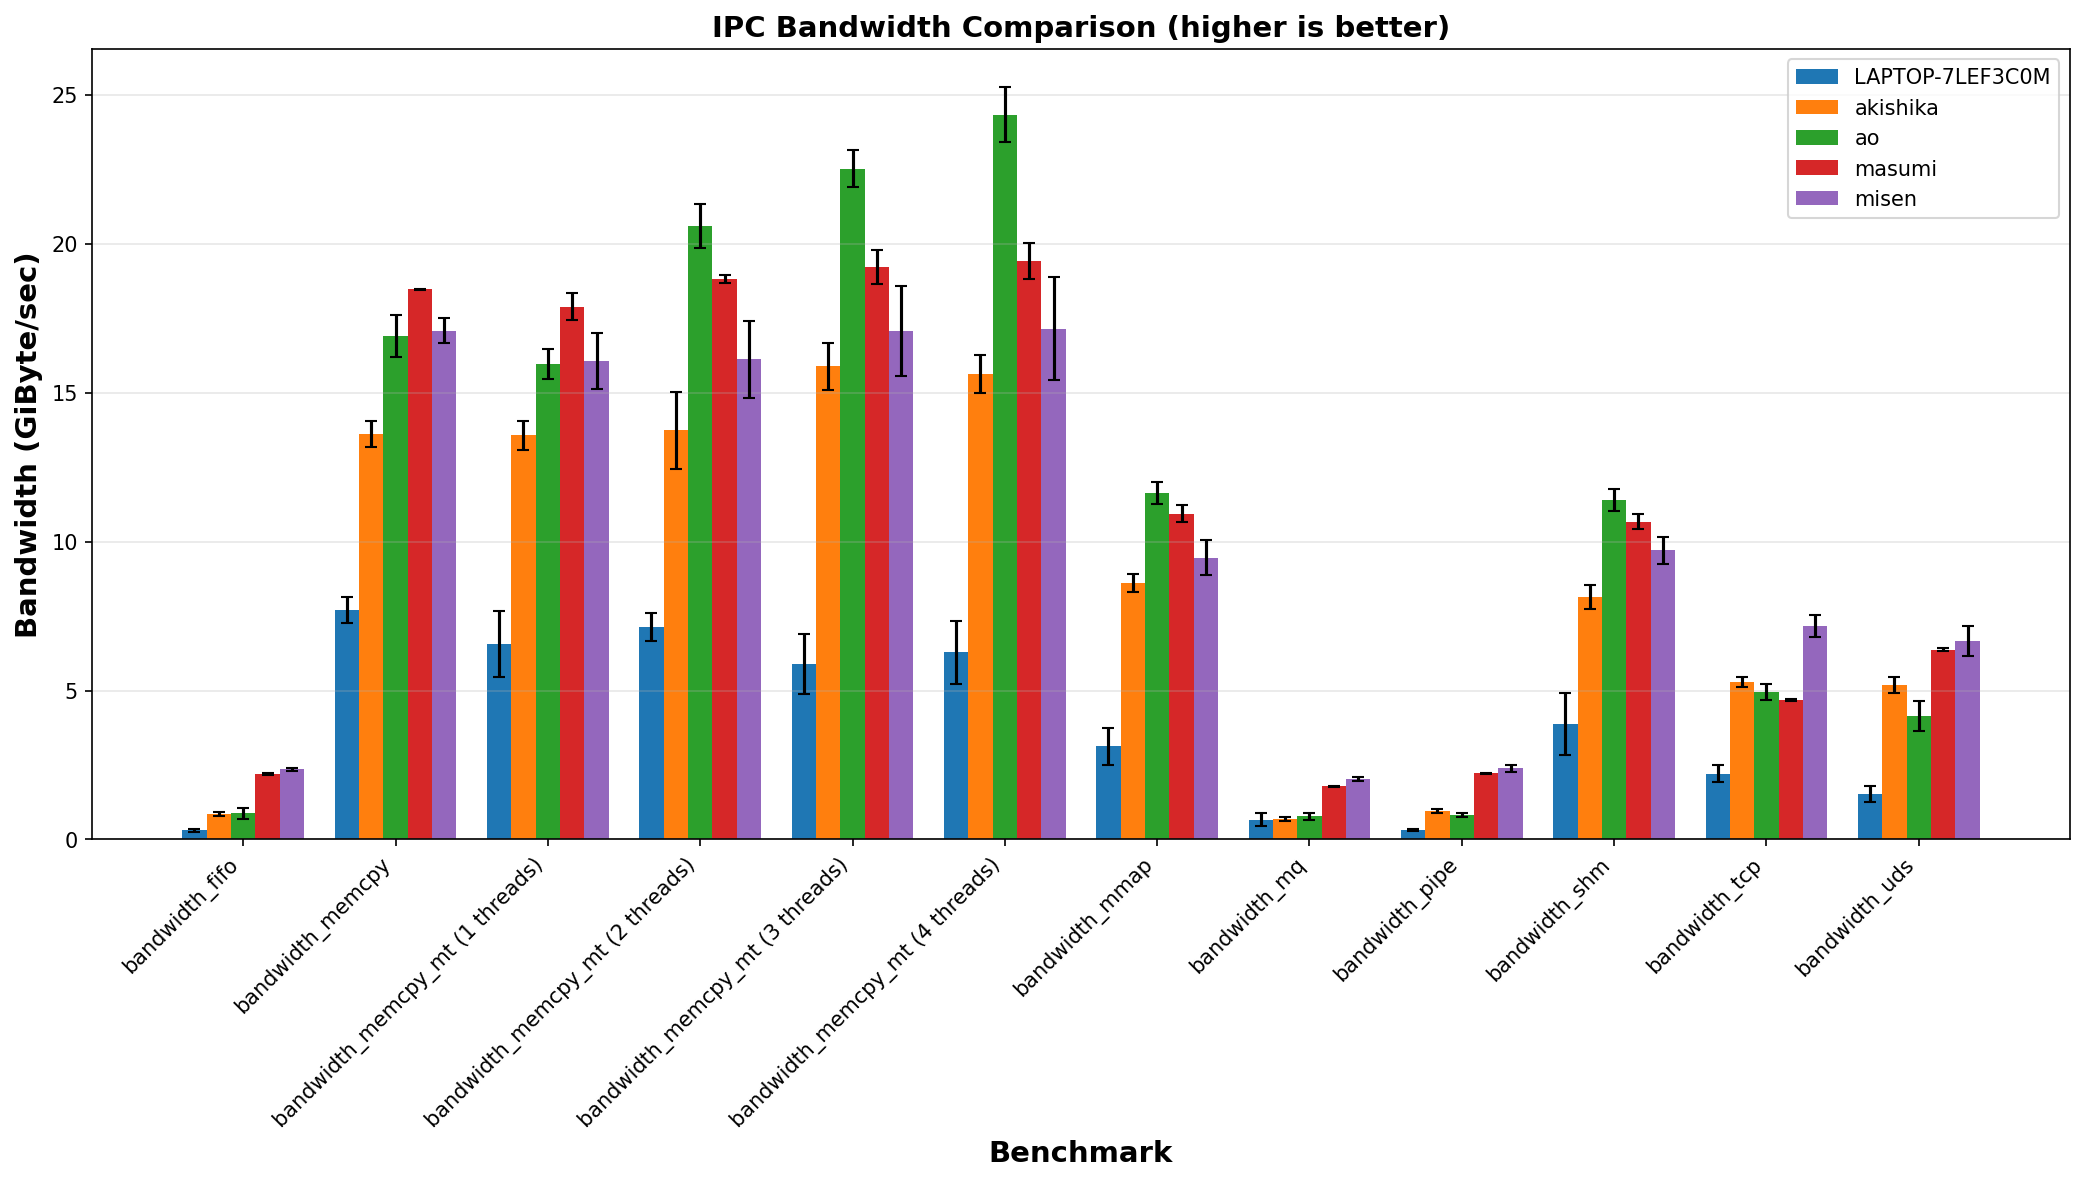
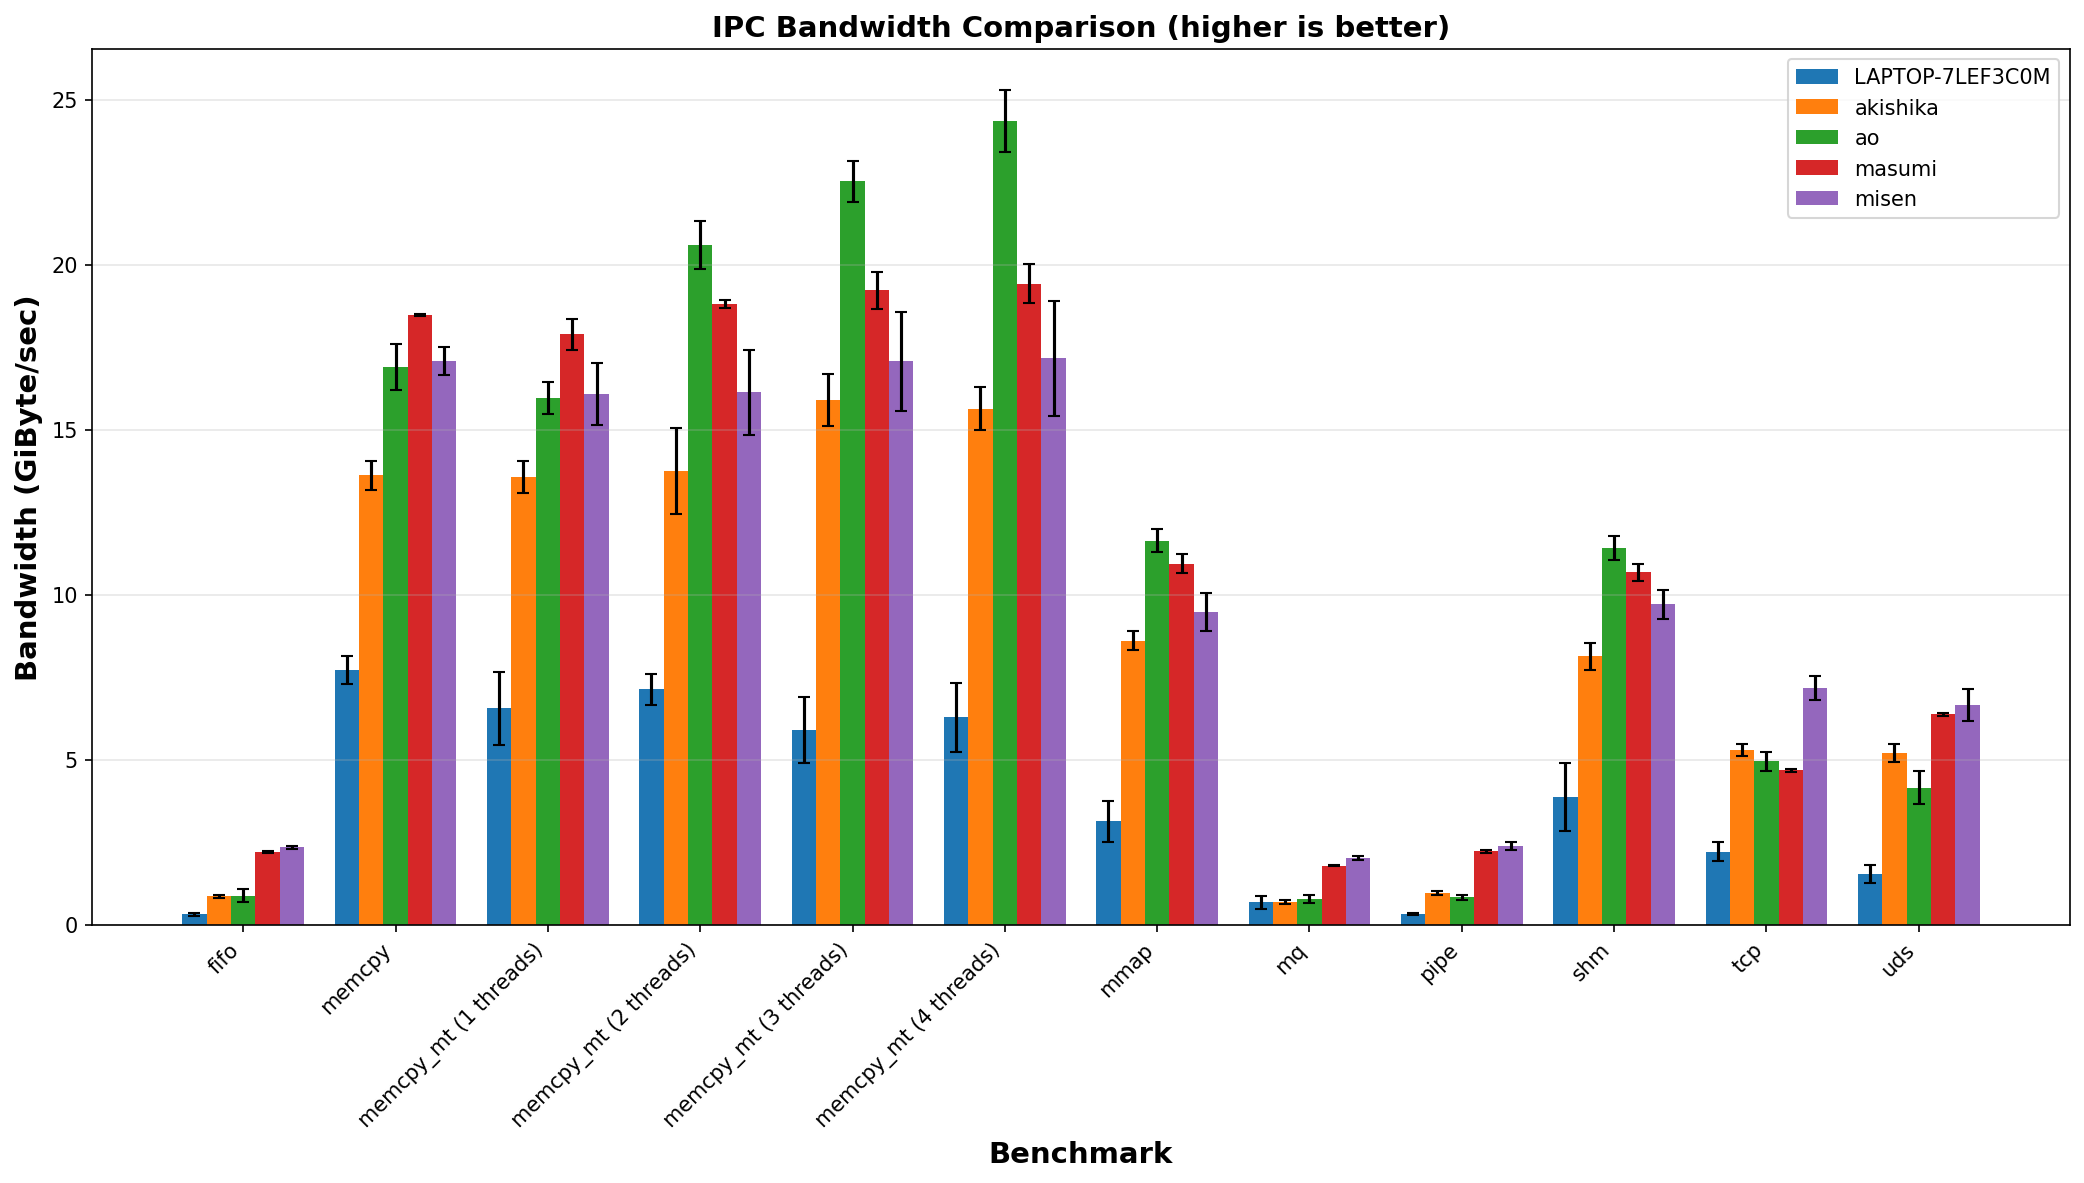
Delete common prefix

diff --git a/scripts/generate_graphs.py b/scripts/generate_graphs.py
@@ -48,7 +48,9 @@ def generate_bandwidth_graph(data, output_path):
         for bench in machine_data.get("bandwidth", []):
             all_benchmarks.add(bench["name"])
 
+    # Remove "bandwidth_" prefix from benchmark names for display
     benchmark_names = sorted(all_benchmarks)
+    display_names = [name.replace("bandwidth_", "") for name in benchmark_names]
     machine_names = sorted(data.keys())
 
     # Prepare data for plotting
@@ -93,7 +95,7 @@ def generate_bandwidth_graph(data, output_path):
         "IPC Bandwidth Comparison (higher is better)", fontsize=14, fontweight="bold"
     )
     ax.set_xticks(x + width * (len(machine_names) - 1) / 2)
-    ax.set_xticklabels(benchmark_names, rotation=45, ha="right")
+    ax.set_xticklabels(display_names, rotation=45, ha="right")
     ax.legend()
     ax.grid(axis="y", alpha=0.3)
 
@@ -110,7 +112,9 @@ def generate_latency_graph(data, output_path):
         for bench in machine_data.get("latency", []):
             all_benchmarks.add(bench["name"])
 
+    # Remove "latency_" prefix from benchmark names for display
     benchmark_names = sorted(all_benchmarks)
+    display_names = [name.replace("latency_", "") for name in benchmark_names]
     machine_names = sorted(data.keys())
 
     # Prepare data for plotting
@@ -155,7 +159,7 @@ def generate_latency_graph(data, output_path):
         "IPC Latency Comparison (lower is better)", fontsize=14, fontweight="bold"
     )
     ax.set_xticks(x + width * (len(machine_names) - 1) / 2)
-    ax.set_xticklabels(benchmark_names, rotation=45, ha="right")
+    ax.set_xticklabels(display_names, rotation=45, ha="right")
     ax.legend()
     ax.grid(axis="y", alpha=0.3)
 
